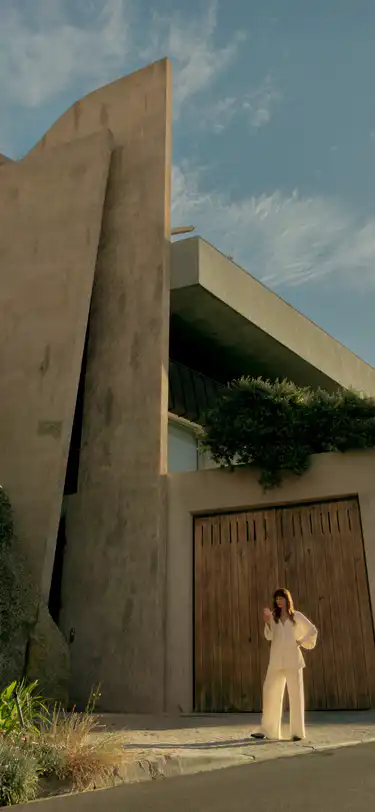
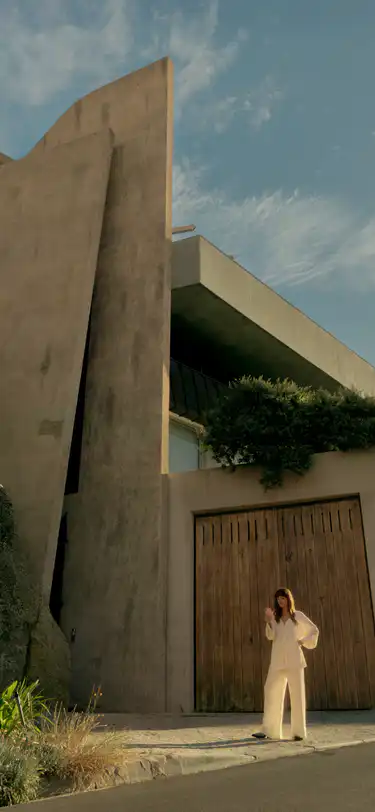
feat(RET-1383): add focal point and PORTRAIT_LARGE crop for brandMoment15
Adds the designer-provided focal point and PORTRAIT_LARGE extractParams
for brandMoment15, scaled from their 995x745 reference to the actual
raw asset dimensions (3194x2393), and regenerates the affected webp
variants.

diff --git a/packages/photography/config/brandMoment15.ts b/packages/photography/config/brandMoment15.ts
@@ -1,5 +1,35 @@
 import { PhotographyConfig } from '../types/types';
 
-const config: PhotographyConfig = {};
+const config: PhotographyConfig = {
+  focalPoint: {
+    originalImage: {
+      dimensions: {
+        width: 3194,
+        height: 2393,
+      },
+      focalPoint: {
+        x: 1597,
+        y: 1196.5,
+        normalizedX: 0.5,
+        normalizedY: 0.5,
+      },
+    },
+    crops: {
+      PORTRAIT_LARGE: {
+        extractParams: {
+          top: 0,
+          left: 1043,
+          width: 1104,
+          height: 2393,
+        },
+        targetDimensions: {
+          width: 375,
+          height: 812,
+        },
+        zoom: 1,
+      },
+    },
+  },
+};
 
 export default config;
